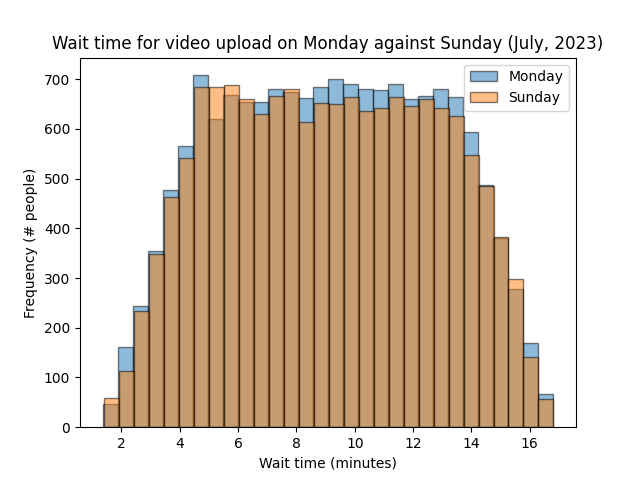
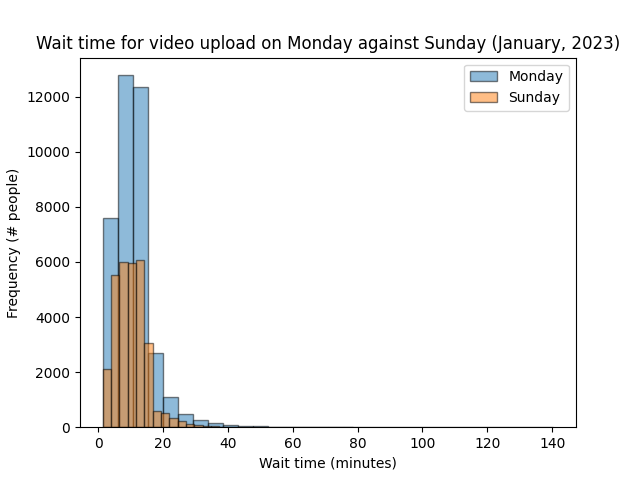
Add deficit round robin

diff --git a/newplace.py b/newplace.py
@@ -16,8 +16,8 @@ stations_name_to_obj = {station.short_name: station for station in stations}
 
 
 ##########################  Load rides  ##########################
-filename_array = [f"rides/7_July/202307-citibike-tripdata_{i}.csv" for i in range(1,5)]
-# filename_array = [f"rides/1_January/202301-citibike-tripdata_{i}.csv" for i in range(1,3)]
+# filename_array = [f"rides/7_July/202307-citibike-tripdata_{i}.csv" for i in range(1,5)]
+filename_array = [f"rides/1_January/202301-citibike-tripdata_{i}.csv" for i in range(1,3)]
                 #   "rides/2_February/202302-citibike-tripdata_1.csv"]
 rides = get_rides(filename_array)
 # because some of the rides contain stations not
@@ -48,23 +48,41 @@ class StationContainer():
         self.video_queue = simpy.Resource(env, capacity=1)
         self.video_bandwidth = 100 # MB/s
 
-def upload_video(env, station: Station, member_casual: str):
-    prob = 1
-
-    if random.uniform(0,1) > prob:
+def upload_video(env, station: Station, data_remaining):
+    if data_remaining == 0:
         return False
-    
-    duration_of_video = get_uniform_range(180, 1800)
-    accident_video = get_uniform_range(60, 900) if get_uniform_range(0, 1) > 0.05 else 0
-
-    with station.resource.video_queue.request() as request:
-        time_required = duration_of_video*45 + accident_video*22.5
-        # print(f"Took me {(time_required/station.resource.video_bandwidth)/60} to upload the video")
-        yield env.timeout(time_required/station.resource.video_bandwidth)
-    
+    request = station.resource.video_queue.request()
+    yield request
+    yield env.timeout(data_remaining/100)
+    station.resource.video_queue.release(request)
     return True
 
-def dock_bike(env, ride, diff_station=None):
+def maybe_record(env,ride):
+    """
+    Returns amount of data remaining.
+    """
+    prob = 0.1 if ride.member_casual == "casual" else 0.3
+
+    if random.uniform(0,1) > prob:
+        return (None, None)
+    
+    duration_of_video = get_uniform_range(180, min(1800, ride.duration))
+    accident_video = get_uniform_range(60, 900) if get_uniform_range(0, 1) > 0.05 else 0
+    amount_mb = duration_of_video*45 + accident_video*22.5
+
+    reply = ccf.open_connection(env, amount_mb, 1010)
+    return reply
+
+def maybe_close(reply):
+    if reply[0] is None:
+        return 0
+    try:
+        return ccf.close_connection(reply[0], reply[1])
+    except:
+        return 0
+
+
+def dock_bike(env, ride, diff_station=None, data_remaining=0):
     end = stations_name_to_obj[ride.end_station_id] if diff_station is None else diff_station
     
     put_bike = lambda: end.resource.docks.get(1)
@@ -74,11 +92,11 @@ def dock_bike(env, ride, diff_station=None):
     if not was_able:
         dist, diff_station = get_closest_station(adj, end, stations, 0, 1)
         yield env.timeout(dist)
-        yield from dock_bike(env, ride, diff_station)        
+        yield from dock_bike(env, ride, diff_station, data_remaining)        
         return
 
     start = env.now
-    response = yield from upload_video(env, end, ride.member_casual)
+    response = yield from upload_video(env, end, data_remaining)
     if response:
         weekday = ride.started_at.weekday()
         arr = day_to_video_wait.get(weekday, [])
@@ -105,8 +123,10 @@ def undock_bike(env, ride, diff_station=None):
 def start_ride(env, ride):
     yield env.timeout(ride.started_at.timestamp())
     yield from undock_bike(env, ride)
+    reply = maybe_record(env,ride)
     yield env.timeout(ride.duration)
-    yield from dock_bike(env, ride)
+    data_remaining = maybe_close(reply)
+    yield from dock_bike(env, ride, data_remaining=data_remaining)
 
 month = simpy.Environment()
 wait_times = WaitTimes()
@@ -152,6 +172,6 @@ plt.hist(y, bins, alpha=0.5, label='Sunday',edgecolor='black')
 plt.legend(loc='upper right')
 plt.xlabel('Wait time (minutes)')
 plt.ylabel('Frequency (# people)')
-plt.title(f'Wait time for video upload on Monday against Sunday (July, 2023)')
-# plt.savefig(f"july.png")
+plt.title(f'Wait time for video upload on Monday against Sunday (January, 2023)')
+plt.savefig(f"dummy.png")
 plt.clf()

diff --git a/ccf.py b/ccf.py
@@ -1,19 +1,53 @@
 import simpy 
 import random
 
+class Video():
+    cur_id = 0
+
+    def __init__(self, data_remaining):
+        self.data_remaining = data_remaining
+        self.id = Video.cur_id
+        Video.cur_id += 1
+
 class CCF():
     def __init__(self, env):
-        self.ccf = simpy.Resource(env, capacity=5000)
+        self.server = simpy.Resource(env, capacity=5000)
     
-    def connection(self, env, type):
+    def consuming_data(self, env, v: Video, bandwidth, quantum=100):
         """
-        Returns the amount of time it took to
-        load the information to the CCF.
+        Consumes data from the CCF.
         """
-        start_time = env.now
-        with self.ccf.request() as req:
-            latency = 0
-            if type == 'app':
-                latency = random.uniform(0.05, 0.2)  # Random between 50ms and 200ms
-            yield env.timeout(latency)
-            return start_time-env.now
+        deficit = 0
+
+        while v.data_remaining > 0:
+            with self.server.request() as req:
+                try:
+                    yield req
+                    data_to_process = min(v.data_remaining, quantum + deficit)  # Include deficit
+                    yield env.timeout(data_to_process / bandwidth)
+                except simpy.Interrupt:
+                    return
+                v.data_remaining -= data_to_process
+                deficit = max(0, quantum - data_to_process)  # Update deficit
+
+    def open_connection(self,env, data_amount, bandwidth, quantum=100):
+        """
+        Returns the process that consumes the data and the object of
+        the data.
+        """
+        v = Video(data_amount)
+        connection = env.process(self.consuming_data(env, v, bandwidth, quantum))
+        return (connection, v)
+    
+    def close_connection(self, connection, v: Video):
+        """
+        Closes the connection with the CCF.
+        """
+        connection.interrupt()
+        return v.data_remaining
+        
+
+class Packet():
+    def __init__(self, id: str, size: int):
+        self.id = id
+        self.size = size
